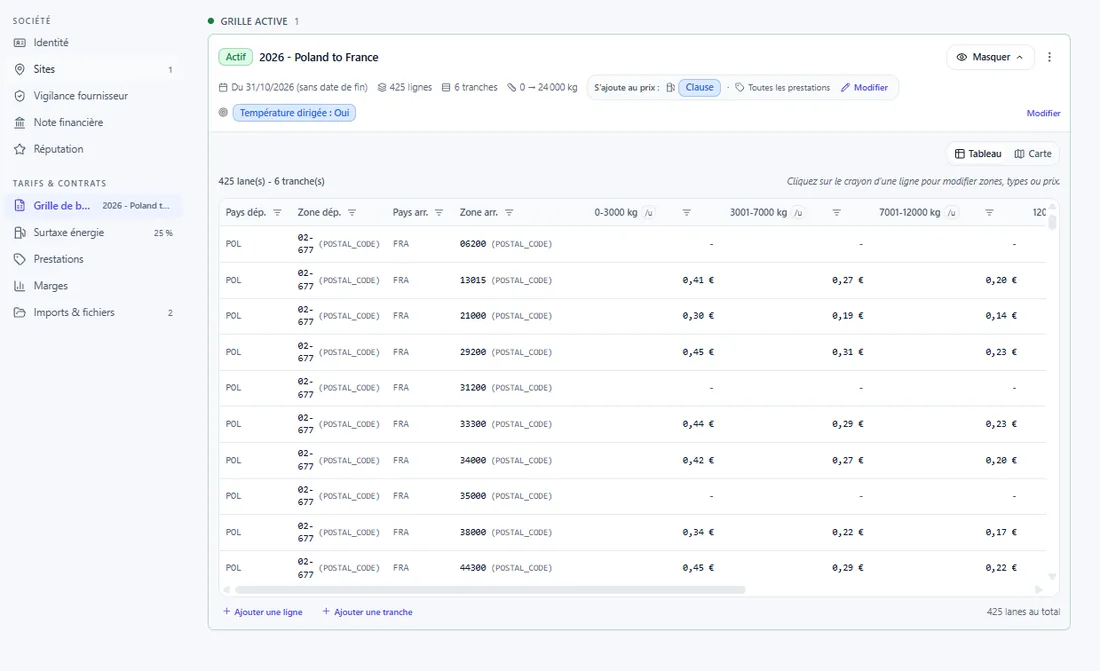
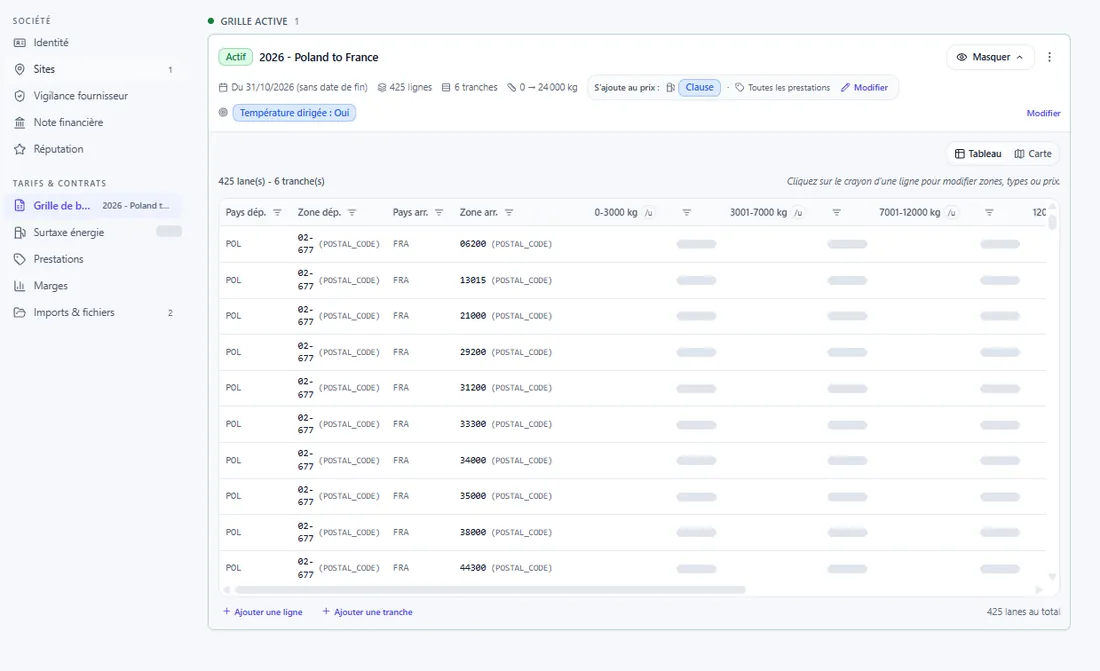
Captures des capacités : montants, tarifs et trajets de chargeur masqués
Le premier jet n'avait masqué que les noms. Sont maintenant masqués dans les
quatre captures concernées : dépenses et parts de dépense du bid pack, budgets
par transporteur et nombre d'ordres des propositions, prix de la grille
tarifaire et surtaxe énergie, extrémités du trajet d'un flux de chargeur
(Move2Rail). L'historique garde le premier jet (0a204e5).

Claude-Session: https://claude.ai/code/session_019CKxhJWGG2ydqrXfEpwiJH

diff --git a/docs/version2/DATA.md b/docs/version2/DATA.md
@@ -34,12 +34,21 @@
 
 `public/images/capabilities/*.webp` : six captures du portail fournies par la direction, une par étape
 (Move2Rail pour l'ingénierie, le paramétrage des lignes d'un bid pack, la recherche de transporteurs et la
-bid list, les propositions reçues, la grille tarifaire d'un contrat). **Tous les noms d'opérateurs, de
-transporteurs et de chargeurs ont été masqués avant l'enregistrement** (barres grises ; initiales des
-avatars effacées ; en-tête de la fiche transporteur, avec son nom et son logo, recadré). Rien d'autre n'est
-retouché. Les noms de projets d'exemple (« New Poland France FTL », « Complexe 1 ») et les valeurs
-affichées sont ceux du portail. **Pas de capture pour la planification de capacité** : le site n'en montre
-pas tant qu'elle n'est pas fournie.
+bid list, les propositions reçues, la grille tarifaire d'un contrat). Données masquées avant l'enregistrement
+(barres grises) :
+
+- **les noms** d'opérateurs, de transporteurs et de chargeurs, les initiales des avatars, l'en-tête de la fiche
+  transporteur (nom et logo, recadré), et les deux extrémités du trajet d'un flux de chargeur (Move2Rail) ;
+- **les montants et les tarifs** : les dépenses et parts de dépense du bid pack, les budgets par transporteur,
+  le nombre d'ordres, les prix de la grille tarifaire et la surtaxe énergie.
+
+Restent visibles : la structure des écrans, les libellés, les noms de projets d'exemple (« New Poland France
+FTL », « Complexe 1 »), les corridors Pologne → France et les codes postaux de la grille. **Pas de capture
+pour la planification de capacité** : le site n'en montre pas tant qu'elle n'est pas fournie.
+
+Un premier jet publié (commit `0a204e5`) n'avait masqué que les noms ; les montants et tarifs réels étaient
+encore lisibles. Ce premier jet reste dans l'historique git de `origin/version2`, dépôt public (voir la
+note dans VERIFICATION.md).
 
 Les gestes de l'agent IA de chaque étape (prioriser, relancer, proposer) sont ceux **donnés par la direction** ;
 la formulation par étape est de nous (`Capabilities.<id>.agent`) et est à valider : le site n'a pas vérifié ces
